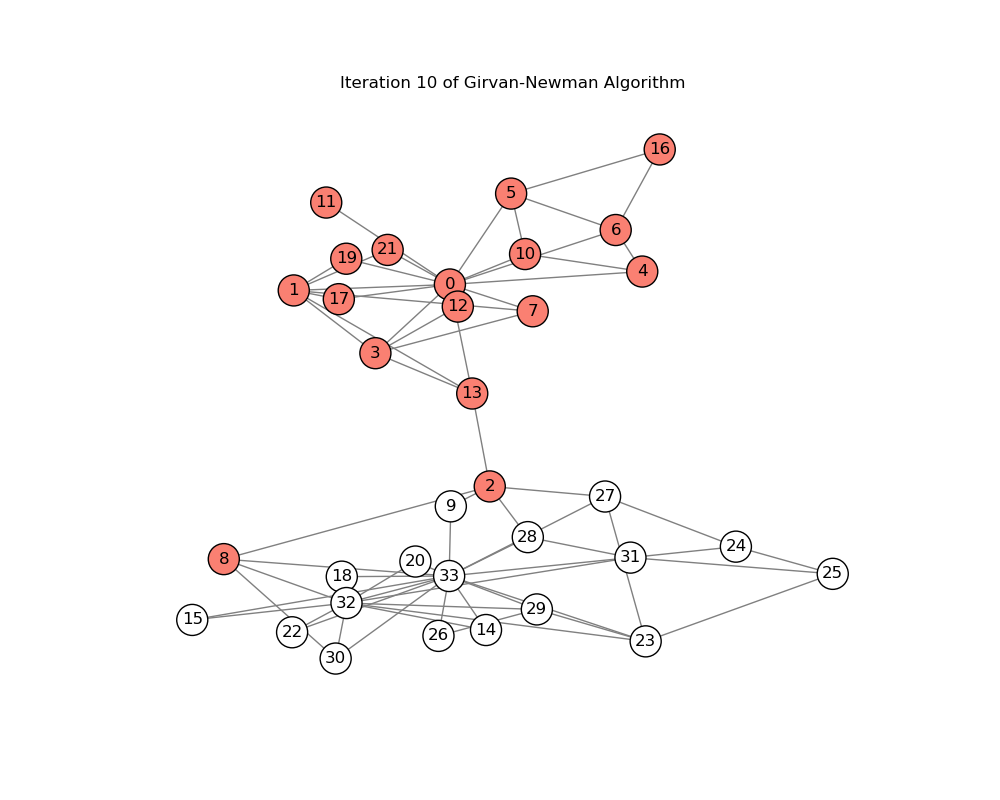
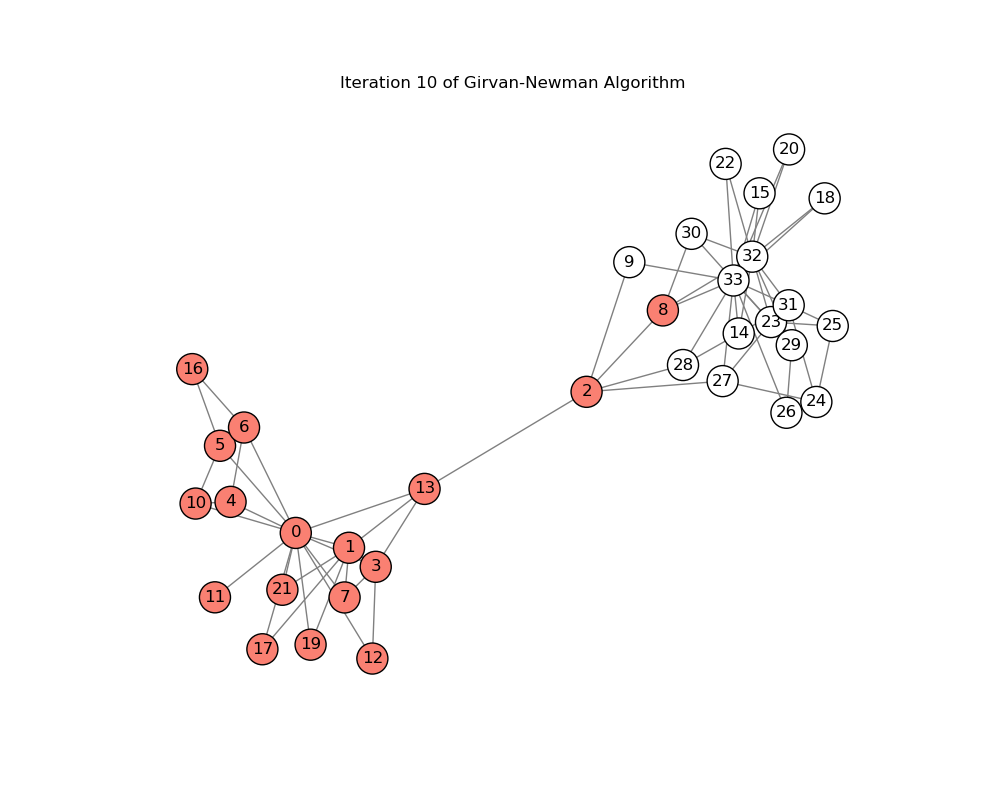
fixed a bug in the code, there are now 11 images to account for the 11 iterations.

diff --git a/homework-5/graph_partitioning.py b/homework-5/graph_partitioning.py
@@ -5,6 +5,26 @@ import os
 # Create the Karate Club graph using NetworkX
 G = nx.karate_club_graph()
 
+def save_graph_snapshot(graph, pos, title, output_path, node_colors, node_size=500):
+    plt.figure(figsize=(10, 8))
+    pos = nx.spring_layout(graph)
+
+    # Draw nodes with predefined colors and black outlines
+    nx.draw_networkx_nodes(
+        graph, pos, node_color=node_colors,
+        node_size=node_size, edgecolors='black', linewidths=1
+    )
+
+    # Draw edges and labels
+    nx.draw_networkx_edges(graph, pos, edge_color='gray')
+    nx.draw_networkx_labels(graph, pos)
+
+    # Save the figure as the initial state
+    plt.title(title)
+    plt.axis('off')
+    plt.savefig(os.path.join(output_path))
+    plt.close()
+
 # Define colors and outline each faction
 def get_node_colors(graph):
     node_colors = []
@@ -15,31 +35,7 @@ def get_node_colors(graph):
             node_colors.append('white')  # Color for John's faction
     return node_colors
 
-# Function to save the initial graph before iterations
-def save_initial_graph(graph):
-    plt.figure(figsize=(10, 8))
-    pos = nx.kamada_kawai_layout(graph)
-
-    # Draw nodes with predefined colors and black outlines
-    nx.draw_networkx_nodes(
-        graph, pos, node_color=get_node_colors(graph),
-        node_size=500, edgecolors='black', linewidths=1
-    )
-
-    # Draw edges and labels
-    nx.draw_networkx_edges(graph, pos, edge_color='gray')
-    nx.draw_networkx_labels(graph, pos)
-
-    # Save the figure as the initial state
-    plt.title("Initial Karate Club Graph")
-    plt.axis('off')
-    plt.savefig(os.path.join("homework-5", "intial_karate_club_graph.png"))
-    plt.close()
-
 def girvan_newman_visualization(graph):
-    # Save the initial graph
-    save_initial_graph(graph)
-    
     # Make a copy of the graph to avoid modifying the original
     working_graph = graph.copy()
     iteration = 1
@@ -48,38 +44,36 @@ def girvan_newman_visualization(graph):
     output_dir = "homework-5/iterations"
     os.makedirs(output_dir, exist_ok=True)
 
-    while nx.number_connected_components(working_graph) == 1:
-        # Calculate edge betweenness centrality
-        edge_betweenness = nx.edge_betweenness_centrality(working_graph)
+    # Initial position and node colors
+    pos = nx.spring_layout(graph)
+    node_colors = get_node_colors(graph)
 
-        # Find the edge with the highest centrality and remove it
+    # Save the initial graph
+    save_graph_snapshot(
+        graph, pos, "Initial Karate Club Graph",
+        os.path.join("homework-5", "initial_karate_club_graph.png"),
+        node_colors
+    )
+
+    while nx.number_connected_components(working_graph) == 1:
+        # Calculate edge betweenness centrality and remove the highest edge
+        edge_betweenness = nx.edge_betweenness_centrality(working_graph)
         edge_to_remove = max(edge_betweenness, key=edge_betweenness.get)
         working_graph.remove_edge(*edge_to_remove)
 
-        # Draw the graph at each iteration
-        plt.figure(figsize=(10, 8))
-        pos = nx.kamada_kawai_layout(working_graph)
+        if nx.number_connected_components(working_graph) > 1:
+            break
 
-        # Draw nodes with predefined colors and black outlines
-        nx.draw_networkx_nodes(
-            working_graph, pos, node_color=get_node_colors(graph), 
-            node_size=500, edgecolors='black', linewidths=1
+        # Save snapshot for each iteration
+        save_graph_snapshot(
+            working_graph, pos, 
+            f"Iteration {iteration} of Girvan-Newman Algorithm",
+            os.path.join(output_dir, f"girvan_newman_iteration_{iteration}.png"),
+            node_colors
         )
 
-        # Draw edges and labels
-        nx.draw_networkx_edges(working_graph, pos, edge_color='gray')
-        nx.draw_networkx_labels(working_graph, pos)
-
-        # Title for each iteration
-        plt.title(f"Iteration {iteration} of Girvan-Newman Algorithm")
-        plt.axis('off')
-
-        # Save the figure as an image file
-        plt.savefig(os.path.join(output_dir, f"girvan_newman_iteration_{iteration}.png"))
-        # plt.show()
-
         # Increment iteration counter
-        iteration += 1
+        iteration += 1        
 
     # Return the final split components for analysis
     components = list(nx.connected_components(working_graph))
